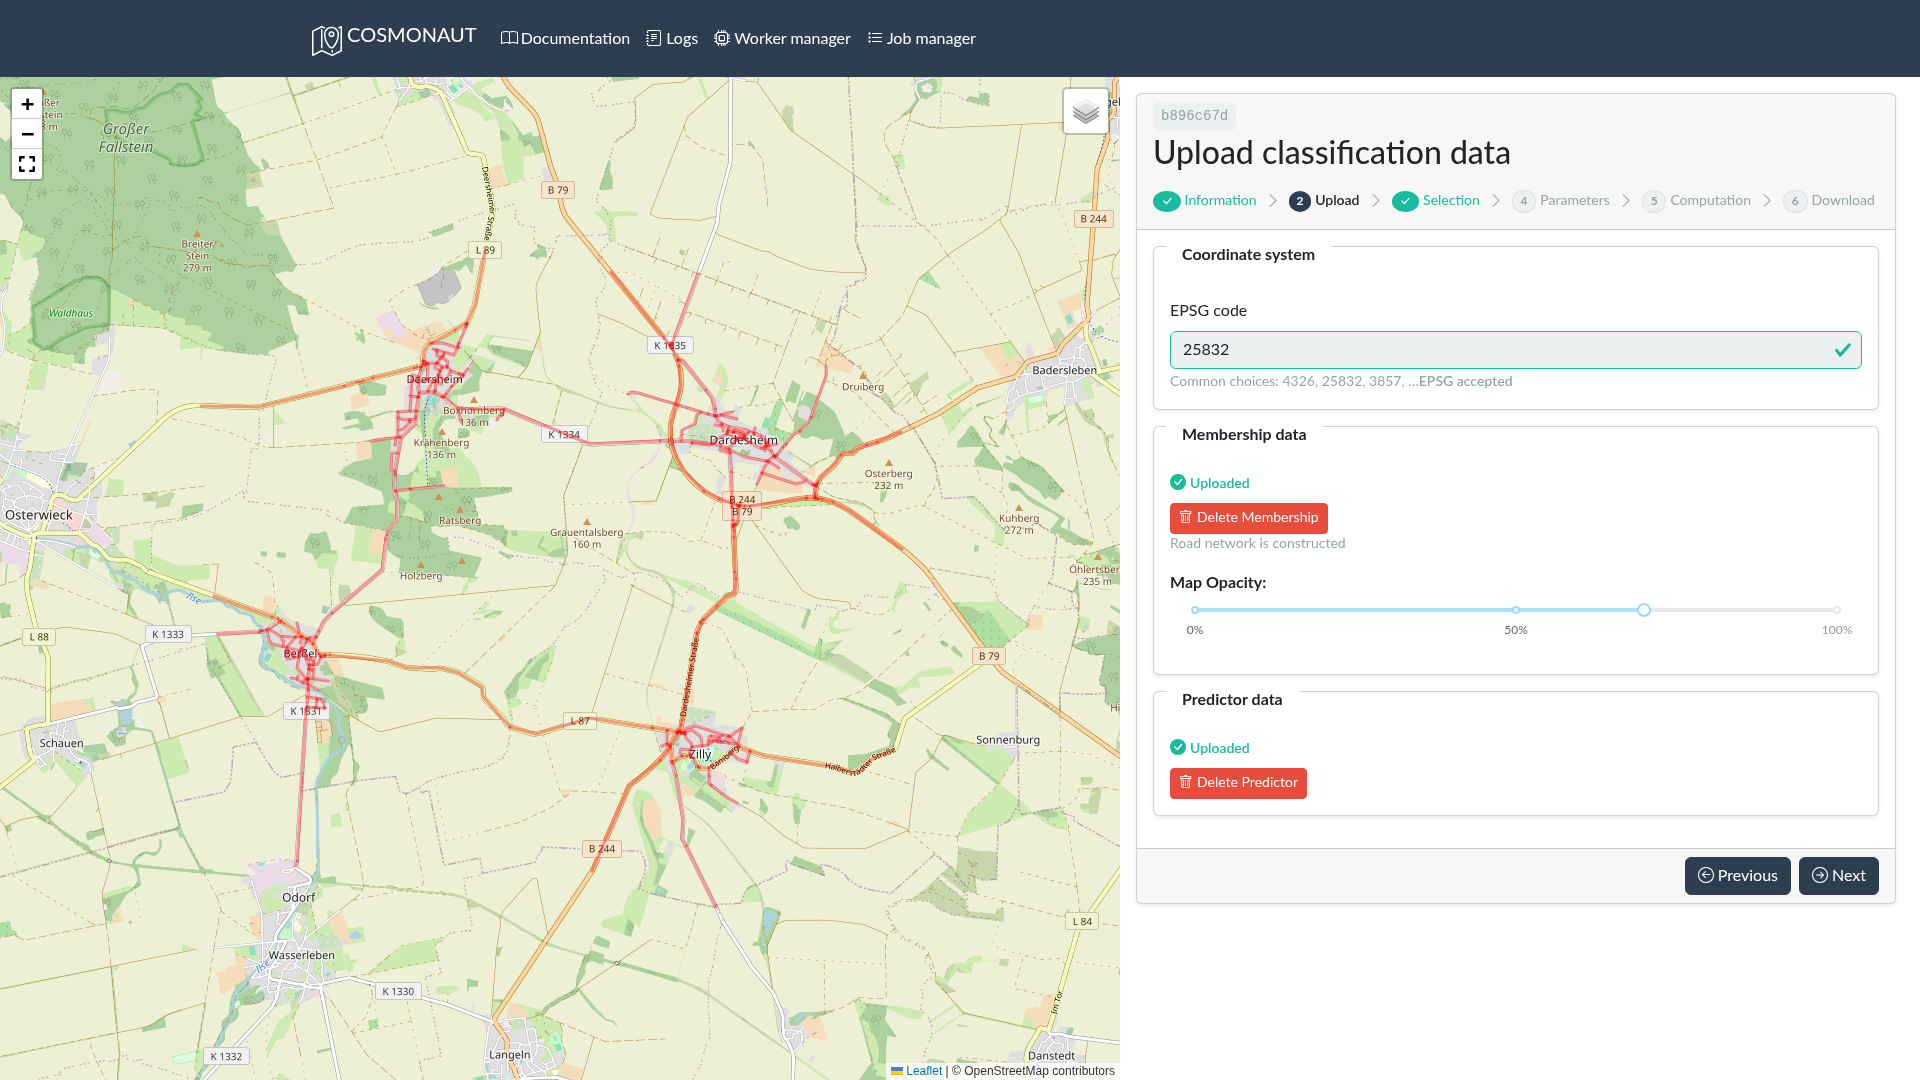
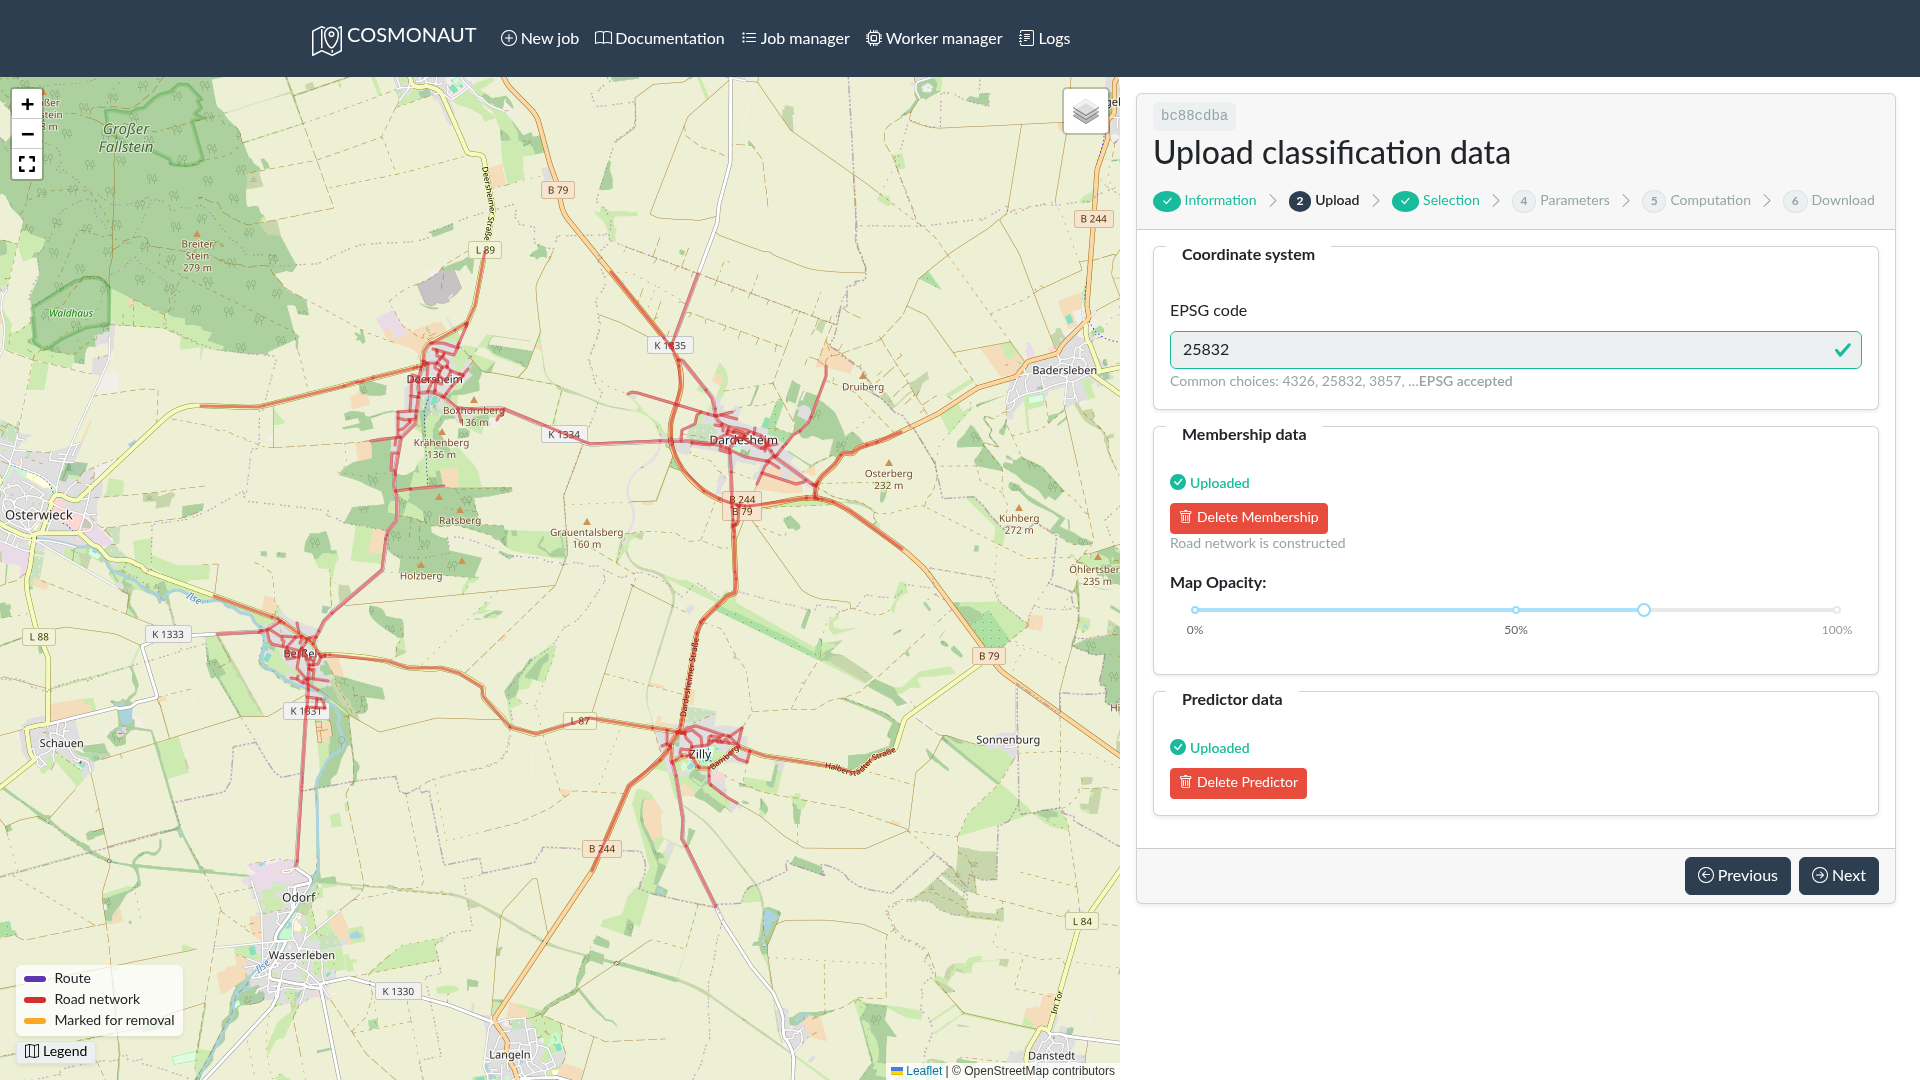
Regenerate user documentation, doc tooling fixes

diff --git a/cosmonaut_app/screenshot_generator.py b/cosmonaut_app/screenshot_generator.py
@@ -255,6 +255,15 @@ class ScreenshotGenerator:
             # Wait for Dash callbacks and content
             self.wait_for_page_ready(timeout=15)
 
+            # Hide the Dash debug-mode dev-tools UI (menu, error alerts) so
+            # documentation can be generated from a DEBUG=1 dev server without
+            # it appearing in the screenshots. Prefix selector: the class
+            # names changed between Dash versions.
+            self.page.add_style_tag(
+                content='[class^="dash-debug"], [class*=" dash-debug"] '
+                "{ display: none !important; }"
+            )
+
             # Capture screenshot
             self.page.screenshot(path=str(output_path), full_page=False)
 

diff --git a/docs/project-state.md b/docs/project-state.md
@@ -13,6 +13,32 @@ _(What's actively being worked on. Short bullets, replace as work shifts.)_
 
 _(Most recent first. Trim older entries when they stop being load-bearing.)_
 
+- **2026-07-07 (round 3, evening):**
+  - **Street marking was dead — root-caused and fixed.** The new click guard read `ctx.hideout.dimmed`, but dash-leaflet **event handlers keep a binding-time snapshot of hideout and never see server-side hideout writes** (style functions DO read it fresh — that's why dimming worked visually while clicks were blocked; proven via instrumented Playwright run: server logged `dimmed=False`, handler saw `true`). Fix: guard on `window.location.pathname` instead. New convention section in [conventions/dash_leaflet.md](conventions/dash_leaflet.md); new **regression test `test/test_street_selection_marking.py`** (hard-load street-selection, click a street pixel on the canvas, badge must count up/down — first e2e coverage of interactive marking at all). Also `toggle_map_dim_on_page` now `prevent_initial_call="initial_duplicate"` (hard-load dim styling guaranteed).
+  - **Legend is collapsible** (small "Legend" toggle button, `dbc.Collapse`; default open). Toggle is a **server-side callback** — the first clientside version hit `dc[namespace][function_name] is undefined` in Louis' browser: Dash hot-reload can leave the browser with a fresh callback graph but stale inline clientside scripts/assets (fix for users: one hard refresh after hot-reloads). Regression test covers the toggle.
+  - Final full suite run on the complete state: **32 passed** (2026-07-07 late evening). Also: screenshot generator now hides the Dash debug-mode dev-tools UI via CSS prefix selector, so docs can be generated from a DEBUG=1 dev server (needed because a dev_up restart wipes jobs — Postgres/MinIO have no data volumes; possible future decision: add volumes).
+- **2026-07-07 (round 2, Louis' feedback on the feedback round):**
+  - **Track grades finalized after two iterations:** "No grade tag" stays as an explicit checklist option, but the **default is now grades 1–3 only — untagged tracks are excluded by default** (too many untagged tracks in OSM to include blindly; condition unknown). UI text now explains that tracktype makes track selection more reliable but many tracks are unfortunately untagged. Fixtures re-derived (599 download → 502 edited/transformed); downloader test covers grade2 kept / grade5 + untagged dropped.
+  - **Base map switcher added**: OpenStreetMap / Satellite (Esri World Imagery) / Terrain (OpenTopoMap) as `dl.BaseLayer` radio entries in the LayersControl; the hardwired module-level `osm_layer` and the dead `default_map_layers` are gone. Note for the color concept: route/network colors must also work on dark satellite imagery (white casing already helps).
+  - **Map design concept v2 applied** (3-lens design workflow + synthesis, user-approved): route deep violet `#5e35b1` on white casing (8:1 contrast, tritanopia-safe vs magenta hues); direction arrowheads violet-filled with white keyline (white-on-white was invisible); start/end CircleMarkers (violet fill = start, white fill = end); marked roads get `dashArray '6,4'` as color-independent second cue; dimmed network opacity 0.6; static color legend bottom-left on the map (`.map-legend`, z-index 1001). **Bug found by the design review and fixed:** street clicks were active on ALL pages (silently filling `hideout.selected`, later deleted by "Remove clicked roads") — `click_handler` now guards on `hideout.dimmed`, and hover shows no affordance on dimmed pages.
+  - **Reverse-route feature implemented**: `dbc.Switch` on Route Download; persisted in per-job `route_options.json` (file pattern like street_edits.json — no DB column/migration); toggling regenerates route.gpx (+ " — reversed" in the GPX name) and the QR code and syncs to MinIO (mandatory: the QR presigned URL and `/download/.../route.gpx` — which re-pulls from MinIO via `overwrite=True` — both serve the MinIO copy); `get_route_polyline` returns reversed order so arrows/markers flip everywhere; `create_qr_code_routing` honors the flag on any regeneration. Order-only reversal — one-way legality is not re-validated (stated in the UI text).
+  - Flag from the design synthesis, not addressed: `docs/design-system/` still documents the pre-violet colors (stale handoff package, same category as the doc screenshots Louis regenerates).
+  - **Devtools error fixed** ("nonexistent object used in an Input", visible in debug mode on every navigation): `poll_street_processing_status` had `Input(URL_SHARED_ID, "pathname")` while its interval only exists in the street-selection wait layout. pathname is now `State`; new convention section "Interval Polling — Interval as the Only Input" in [conventions/callbacks.md](conventions/callbacks.md).
+  - **Dimmed network visibility restored**: weight 2/opacity 0.3 was near-invisible over the membership raster → weight 3/opacity 0.45 on non-editing pages (route still dominates via magenta+casing).
+  - **Route direction arrows**: white arrowheads via `dl.PolylineDecorator` (repeat 120px) in the Route LayerGroup, positions fed by `update_map_layers`. Visual check pending.
+  - **EMAIL_SENDER reverted to `cosmopolitan@ufz.de`** — Louis never set up a cosmonaut@ufz.de mailbox, so sending from it could bounce/reject. The `formataddr(("COSMONAUT", …))` display name (kept) is what fixes Hendrik's complaint in mail clients. **If a COSMONAUT alias is ever requested from UFZ IT, only the env files change.**
+  - `assets/docs/documentation.md` is stale again (ungraded-option text) — Louis regenerates docs+screenshots himself.
+  - Design concept v2 for map colors/streets + reverse-route-at-download option: in discussion (workflow-synthesized proposal, see conversation).
+
+- **2026-07-06** — **Hendrik's feedback round** (navbar, track grades, email sender, route color) implemented in one pass:
+  - **Navbar aligned with COSMOPOLITAN**: new "New job" item first (creates a job via callback, same one-click flow as the home button), then Documentation → Job manager → Worker manager → Logs. Fixed stale home-page copy that referenced the long-deleted navbar search bar (now points to the Job manager).
+  - **Track-grade filter (OSM `tracktype` grade1–5 + ungraded bucket)** on the Street Selection page, default grade 1–3 + ungraded (grade 4/5 = soft surface, rarely traversable by survey vehicles, inconsistent OSM tagging). Post-download filter in `StreetSelector` (`street_edits.json` key `selected_track_grades`); the default is also applied per-way in the streaming download so `osm_data_edited/transformed.geojson` match the UI from the start (`osm_data_download.geojson` stays unfiltered). Legacy edit files migrate to "all grades". Shared predicate: `road_network_utils.track_grade_allowed` (NOT in street_selector — circular import via `osm/__init__`). Decision record: [decisions/20260706-track-grade-filter-post-download.md](decisions/20260706-track-grade-filter-post-download.md).
+  - **Email sender fixed**: `EMAIL_SENDER` was `cosmopolitan@ufz.de` in **all** env files (copy-paste from commit `a033d3b`); now `cosmonaut@ufz.de` everywhere + `formataddr(("COSMONAUT", …))` display name in `email_service.py`. **Open: verify with UFZ mail admin that the relay accepts `cosmonaut@ufz.de` as From for the shared `soncosmo` account** — needs a new image tag to reach prod (env_prod is baked at build time).
+  - **Map colors reworked** (route drowned in the red network): route is now magenta `#d500f9` on a white casing layer (new `ROUTE_CASING_LAYER_MAP_ID`, both in a `dl.LayerGroup` under the "Route" toggle, `interactive: False`); network thinner/fainter when dimmed (non-editing pages), deeper red `#d32f2f`/amber `#f9a825` instead of literal red/yellow. Colors centralized as constants in `layout.py`, interpolated into the clientside handlers. Note: the street-layer line weights are now honest constants — the old "zoom-adaptive" formula never worked because `hideout.zoom` was frozen at 10 since map creation; wiring real zoom-adaptivity would need a map-zoom→hideout sync callback.
+  - **Trunk fixed the other way (user decision after OSM-wiki check):** the "Trunk road" filter option was a silent no-op since the osmnx era because `HIGHWAY_TYPES` never fetched `trunk`. highway=trunk = autobahnähnliche Schnellstraße (between motorway and primary) — fetching motorways but not trunks left silent network holes, so `trunk` is now **added to `HIGHWAY_TYPES`** and the option stays. Note: `test/fixtures/osm_cache/` is a pre-trunk snapshot (fine — no test asserts road classes; the nightly live-OSM job exercises the real query; regenerate via `test/fixtures/regenerate_osm_cache.py` when convenient).
+  - **Cleanup (user-approved):** deleted dead assets `resize.js` (referenced non-existent IDs) and `filter_features.js` (never wired to a callback). Doc screenshots still show the old navbar/blue route — Louis regenerates them himself.
+  - **Post-implementation adversarial review (9 findings, all addressed or known):** PENDING-status guards added to `update_tags_dropdown`/`update_track_grades` (CSS `pe-none` doesn't block keyboard toggling); no-op guards in `StreetSelector.update_tags/update_track_grades` (reset/select-all redelivery no longer re-derives the network 3×); `track_grade_allowed` uses `.get("tracktype")` with comment (legacy osmnx-era download files can omit the key entirely); `test/fixtures/osm_cache/` edited/transformed re-derived with the default grade filter (599→550, download untouched) and `test_downloader_streams_three_files` now asserts a grade5 way is excluded; `reset_edits` (6 outputs) and `update_map_layers` (5 outputs) converted to dict-style per callbacks.md; `assets/docs/documentation.md` regenerated (was stale: still advertised the deleted navbar search bar, no Track Grades section).
+
 - **2026-06-24** — **Local self-hosted Overpass integration proven end-to-end** (runbook: [knowledge/runbooks/local-overpass-testing.md](knowledge/runbooks/local-overpass-testing.md)).
   - Stood up wiktorn on the **mirrored** image `registry.hzdr.de/ufz/tb5-smm/met/wg7/osm-services/overpass:latest`, serving a merged **Sachsen + Sachsen-Anhalt + Brandenburg** snapshot (`osmium merge`, 67M nodes / 10.7M ways, border-dedup verified via `osmium fileinfo`). `OVERPASS_DIFF_URL=` empty → snapshot, no update feed.
   - **COSMONAUT needed no code change** — `OVERPASS_URL` was already env-wired in `osm/source.py`. Pointed at the instance via `OVERPASS_URL="http://localhost:12345/api/interpreter"` in `env_dev_mock`; `network_mode: host` makes `localhost:12345` reachable from the worker. **The client POSTs the URL verbatim → it must be the full `…/interpreter` URL**, not the base `…/api` (the `compare_osm_backends.py` spike has the opposite convention).

diff --git a/cosmonaut_app/assets/docs/documentation.md b/cosmonaut_app/assets/docs/documentation.md
@@ -2,7 +2,7 @@
 
 ### COSmic ray based soil MOisture Prediction NAvigation and UTility Tool
 
-*Last updated: 2026-05-22 15:02:32*
+*Last updated: 2026-07-07 22:37:55*
 
 ## Table of Contents
 1. [Introduction](#introduction)
@@ -60,9 +60,9 @@ based on cosmic ray neutron sensor measurement locations. This page allows you t
 begin a new routing job by clicking the "Create new job" button.
 
 Each job is assigned a unique identifier that tracks your data, route selections,
-and final navigation output through the entire workflow. You can also load existing
-jobs using the search bar in the navigation header to continue work on a previous
-routing project.
+and final navigation output through the entire workflow. You can also continue
+work on a previous routing project by opening it from the Job manager in the
+navigation header.
 
 From here, you'll proceed through the workflow to provide job information, upload
 membership data, select streets from OpenStreetMap, configure routing parameters,
@@ -165,6 +165,16 @@ preserved exactly as you left them.
   - Unclassified, Residential, Living street, Track
 
   Use "Select All" / "Select None" buttons for quick bulk operations.
+
+- **Track Grades**: While the Track type is enabled, an additional filter
+  selects which OSM ``tracktype`` grades are included. The scale describes
+  surface firmness from grade 1 (solid — paved or heavily compacted) to
+  grade 5 (soft — uncompacted, subtle on the landscape) and makes track
+  selection much more reliable — but many tracks in OSM are unfortunately
+  untagged. Grades 4 and 5 are rarely traversable by survey vehicles;
+  they and untagged tracks (unknown condition) are excluded by default, so
+  only grades 1-3 are active initially. Enable "No grade tag" to include
+  untagged tracks as well.
 
 - **Interactive Clicking**: Click individual road segments on the map to mark
   them for removal. Marked roads are highlighted in a distinct color for
@@ -327,6 +337,12 @@ or navigation applications.
 - **GPX Download**: Download the complete navigation route as a standard GPX
   (GPS Exchange Format) file compatible with most GPS devices, smartphone
   navigation apps, and mapping software.
+
+- **Reverse Direction**: A switch flips the start and end of the route. The
+  GPX file, the QR code and the on-map direction arrows update together.
+  Only the order of the track points is reversed — the route itself does not
+  change, and one-way restrictions are not re-validated for the opposite
+  direction, so double-check the reversed route is legal to drive.
 
 - **Route Visualization**: View the calculated route overlaid on the interactive
   map with all waypoints, turn-by-turn segments, and your original measurement

diff --git a/docs/skills/new_page.md b/docs/skills/new_page.md
@@ -243,10 +243,17 @@ log = logging.getLogger(__name__)
 After the page works:
 
 ```bash
-python -m cosmonaut_app.doc_generator <job_id>
+# Requires the dev app running on localhost:8080 and TWO prepared jobs:
+# <job_id_new>: advanced up to routing-params (upload done, route NOT started)
+# <job_id_finished>: fully completed (route computed)
+python -m cosmonaut_app.doc_generator <job_id_new> <job_id_finished>
 ```
 
-This captures a screenshot and extracts the module docstring into web documentation. Ensure your `# User documentation` section in the docstring is complete.
+This captures all page screenshots and extracts the module docstrings into the
+static web documentation (`assets/docs/`). Ensure your `# User documentation`
+section in the docstring is complete. Also add the new page to
+`cosmonaut_app/doc_pages_config.py` — the generator only documents pages
+listed there (it is not derived from the navbar).
 
 ### Step 11: Navbar (if applicable)
 
